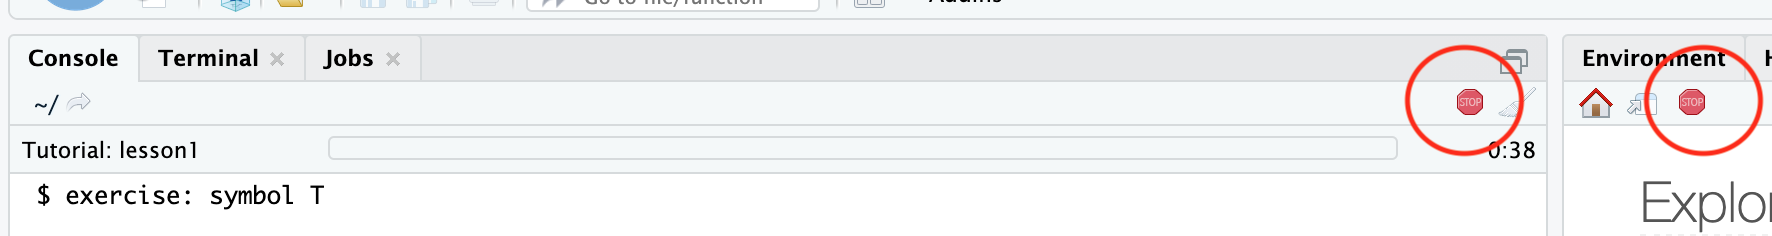
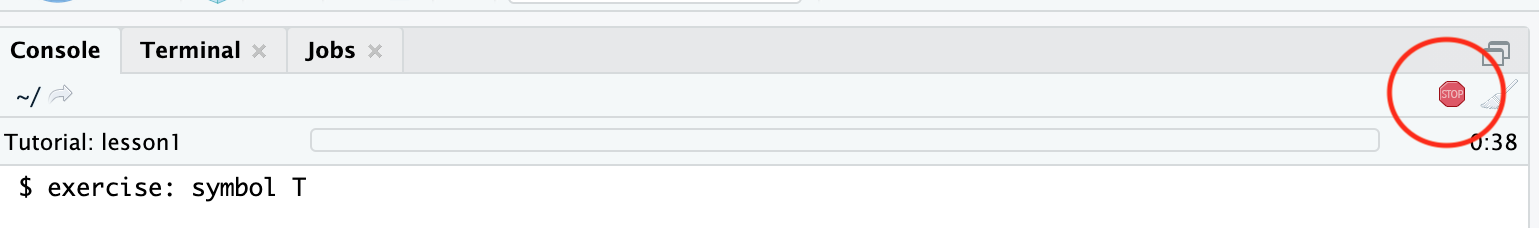
make documentation more thorough

diff --git a/README.md b/README.md
@@ -1,5 +1,6 @@
 # nudgeStatLabs
 ## learnr labs for intro stat
+adapted from labs for Open Intro ISRS
 
 ### To install this package:
 
@@ -11,29 +12,32 @@
 
 `devtools::install_github("sastoudt/nudgeStatLabs")`
 
-### Launch a lesson*:
+3. Thanks to Marney for this one: after install is complete (I know this seems weird, but go with it):
 
-1. `learnr::run_tutorial("lesson1", "nudgeStatLabs")`
+```unistall.pacakges("htmltools")```
+
+```install.packages("htmltools")```
+
+Exit RStudio and then open it again.
+
+#### Troubleshooting
+
+- These packages have more recent versions available. Which would you like to update? --> If the list only includes `htmltools` say No.
+
+- Do you want to install from sources the package which needs compilation? (in reference to `dplyr 1.0.3` instead of `dplyr 1.0.4`) --> No 
+
+### Launch a lesson:
+
+1. In the console (bottom left) type: `learnr::run_tutorial("lesson1", "nudgeStatLabs")`
 
 ### Stop a lesson 
 
-1. Click stop sign on the left (use the one on the right if *).
+1. Click stop sign on the left.
 
 ![](stop-tutorial.png)
 
 
-#### *If you get an error on the RStudio Server:
-
-1. Launch the lesson (go to Tutorial tab in upper right, scroll to find the nudgeRlabs tutorial, click "Start Tutorial")
-
-![](start-tutorial.png)
-
-2. Open in a bigger screen (click the middle icon that has a window and arrow)
-
-![](open-in-browser.png)
-
 ## Available Tutorials
-
 
 - "lesson1": Exploring data
 - "lesson2": Introduction to data
@@ -56,3 +60,13 @@ There will be a pre-lab and a lab report for each lab. The pre-lab will be compl
 ## How to Submit Pre-Lab
 
 ![](submit-tutorial.png)
+
+#### Troubleshooting
+
+I can't see the Google Form at the end. 
+
+Open in the browser (this should happen automatically if you use `run_tutorial` ), use Google Chrome, and make sure you are logged in to your Smith e-mail in the same browser (only Smith authenticated accounts can access the form to avoid any spam).
+
+**Run into any problems not listed above? Let me know and when we figure it out we'll add to the list.**
+
+
